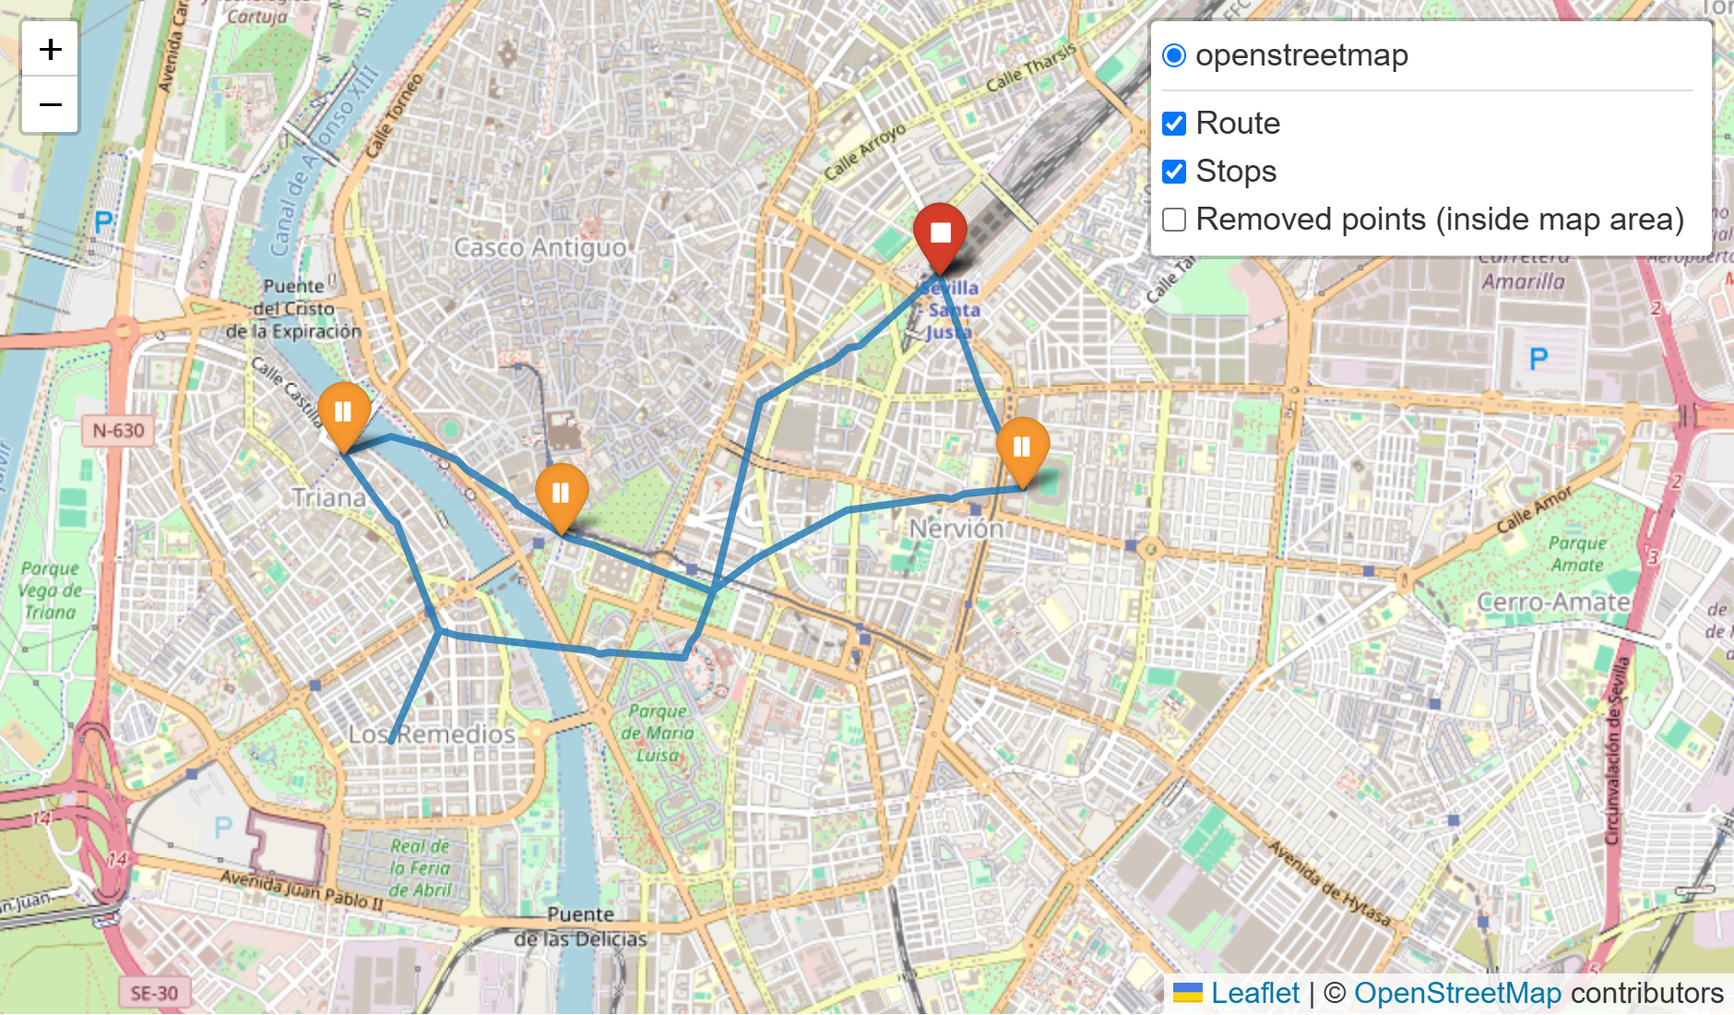
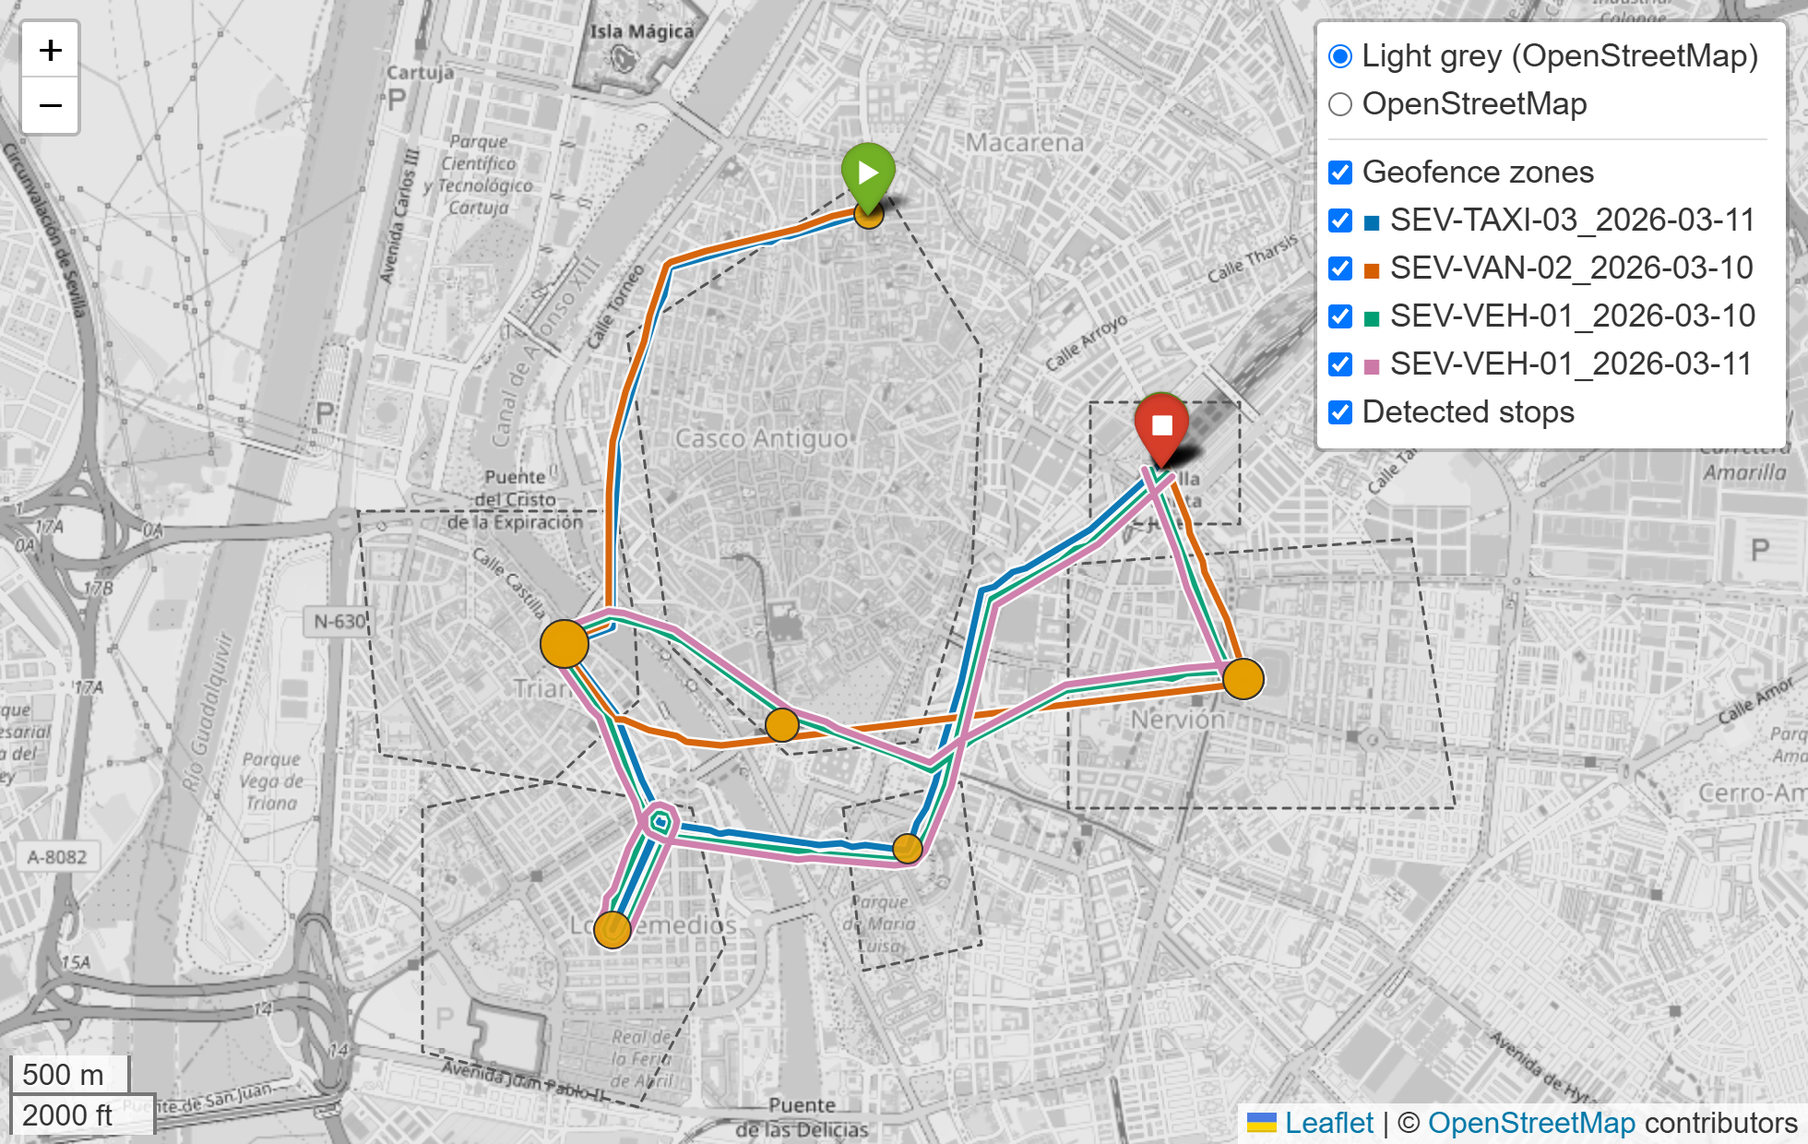
Update README and screenshots

diff --git a/README.md b/README.md
@@ -1,137 +1,273 @@
 # GPS Trajectory Analysis – Seville
 
-A small Streamlit app that loads GPS records for one vehicle driving around Seville, removes invalid records, analyses the trajectory and shows the result on an interactive map.
+A Streamlit application for cleaning and analysing vehicle GPS tracks. It reads GPS records from CSV, GPX or GeoJSON files, removes invalid records, builds trajectories for several vehicles, and runs trajectory and spatial analysis: stops, journeys, geofencing, proximity and route comparison. Results can be stored in PostGIS and exported as CSV or GeoJSON.
 
-The data is synthetic. The trajectory analysis is done with [MovingPandas](https://github.com/movingpandas/movingpandas); this project does not reimplement its algorithms.
+The GPS data is synthetic. It describes three vehicles driving around Seville over two days. Trajectory algorithms come from [MovingPandas](https://github.com/movingpandas/movingpandas), and spatial operations from GeoPandas and Shapely.
+
+![Map with trajectories, stops and geofence zones](screenshots/map.png)
 
 ## Screenshots
 
-Taken from the running app with the sample dataset and default settings.
+Journey summary for all vehicles:
 
-Route from Santa Justa through Nervión, the city centre, Triana and Los Remedios, with the three detected stops:
+![Overview](screenshots/overview.png)
 
-![Map with route and stops](screenshots/map.png)
+Data quality: rejected records by reason, and distance at each cleaning stage:
 
-Journey summary:
+![Data quality](screenshots/data_quality.png)
 
-![Journey statistics](screenshots/dashboard.png)
+Raw track (dashed) against the cleaned track for one vehicle. The dashed line leaving the top of the map is a GPS jump to the airport. The white circles are fixes rejected for low reported accuracy.
 
-Stops table, records removed during cleaning, and speed over time:
+![Raw and cleaned track](screenshots/raw_vs_cleaned.png)
 
-![Stops, removed records and speed chart](screenshots/analysis.png)
+Speed and acceleration profiles:
 
+![Movement](screenshots/movement.png)
 
+Geofence events and time spent inside each zone:
+
+![Spatial analysis](screenshots/spatial.png)
 
 ## What it does
 
-1. Reads a CSV with `timestamp`, `latitude`, `longitude` (and optionally `vehicle_id`).
-2. Removes records that are missing values, have unreadable values, are outside the valid coordinate range, are at (0, 0), are outside a Seville bounding box, or repeat a timestamp.
-3. Builds a MovingPandas `Trajectory` and removes GPS jumps with `OutlierCleaner` (points that would need a speed above a set limit to reach).
-4. Calculates distance, duration and speed with MovingPandas (`get_length`, `get_duration`, `add_speed`).
-5. Detects stops with MovingPandas `TrajectoryStopDetector`.
-6. Shows the route, start/end, stops and removed points on a Folium map, plus summary figures, a stops table, a removed-records table and a speed chart. The cleaned trajectory can be downloaded as CSV.
+**Input and cleaning**
+- Reads CSV, GPX and GeoJSON (points, or lines with a list of times). Several files can be loaded together.
+- Rejects records with a missing or unreadable timestamp or coordinate, coordinates out of range, (0, 0), points outside the study area, a reported accuracy worse than a threshold, or a duplicate timestamp.
+- Removes GPS jumps with MovingPandas `OutlierCleaner`.
+- All thresholds can be changed in the sidebar or in a TOML file (`config/default.toml`).
+- Produces a quality report: records read, valid and rejected, the reason for each rejection, sampling intervals and gaps, and distance at each cleaning stage.
+- Keeps raw, cleaned and processed data separate.
 
-The speed limit for GPS jumps and the stop parameters (maximum diameter, minimum duration) can be changed in the sidebar. You can also upload your own CSV in the same format.
+**Trajectories**
+- Builds one trajectory per vehicle and day.
+- Calculates distance, duration, moving time, average and maximum speed, and acceleration.
+- Detects stops and dwell times, and splits trajectories into journeys at stops and signal gaps.
+- Finds locations visited more than once, by clustering stops with DBSCAN.
+- Flags unusual movement: unusually high speed, or harsh acceleration and braking, using a robust z-score per vehicle.
+- Compares routes with Hausdorff distance, discrete Fréchet distance, and the share of each route within a buffer around the other.
+- Filters by vehicle, date, time of day and zone.
 
-## My implementation vs. the libraries
+**Spatial analysis**
+- Geofencing: entry and exit times and dwell time per zone, from point-in-polygon joins.
+- Spatial joins of stops with zones, and the length of each route inside each zone (overlay).
+- Route buffers, landmarks near each route, and the nearest landmark to each stop.
+- Optional road network from OpenStreetMap with OSMnx, with each fix snapped to the nearest road.
+- GeoJSON export of trajectories, stops and zones.
+
+**Storage and dashboard**
+- Optional PostGIS storage with spatial indexes, and queries by vehicle, date, bounding box and distance.
+- Streamlit dashboard with a layered map (trajectories, stops, zones, rejected points, raw track, buffers, frequent locations, unusual movement, heatmap), charts, tables and download buttons.
+
+## How it works
+
+```mermaid
+flowchart LR
+    A[CSV / GPX / GeoJSON] --> B[Validation<br>readers.py, cleaning.py]
+    B --> C[GPS cleaning<br>OutlierCleaner]
+    C --> D[Trajectory processing<br>analysis.py, analytics.py]
+    D --> E[Spatial analysis<br>spatial.py, roads.py]
+    E --> F[PostGIS / CSV / GeoJSON<br>db.py, export.py]
+    E --> G[Streamlit dashboard<br>app.py]
+    F --> G
+```
+
+1. **Read.** Each reader returns the same raw table: `vehicle_id`, `timestamp`, `latitude`, `longitude`, `accuracy_m`, `source`. Values stay as text, so a bad value becomes a rejected record with a reason instead of an error.
+2. **Validate.** Record checks with pandas. Each rejected record keeps its original values and the first rule it failed.
+3. **Clean.** Records are grouped into one MovingPandas trajectory per vehicle and day. GPS jumps are removed: a jump is a point that would need more than 200 km/h to reach.
+4. **Process.** Speed, acceleration, stops and journeys come from MovingPandas. The summary tables, clustering, anomaly rule and route comparison are my code.
+5. **Spatial analysis.** Done in WGS84 for storage and display, and in ETRS89 / UTM 30N (EPSG:25830) for anything measured in metres. An automatic UTM zone can be chosen instead.
+6. **Output.** Shown in the dashboard, exported as files, or stored in PostGIS.
+
+The code is in `gps_seville/`. `pipeline.py` runs steps 2–4 and returns the raw, cleaned and processed data in one object. `app.py` only builds the interface.
+
+## My code vs. the libraries
 
 | Part | Done by |
 |---|---|
-| Synthetic data generator (`scripts/generate_data.py`) | My code |
-| Record checks: missing values, ranges, (0, 0), bounding box, duplicates (`gps_seville/cleaning.py`) | My code, using pandas |
+| CSV/GPX/GeoJSON readers, column aliases, time zone handling | My code (gpxpy parses GPX) |
+| Record checks and rejection reasons | My code, pandas |
 | GPS jump removal | MovingPandas `OutlierCleaner` |
-| Distance, duration, speed | MovingPandas `Trajectory` |
-| Stop detection | MovingPandas `TrajectoryStopDetector` |
-| Summary figures (moving time, average moving speed) | My code, from MovingPandas results |
-| Map layers and app layout (`gps_seville/mapping.py`, `app.py`) | My code, using Folium, streamlit-folium and Streamlit |
-| Tests (`tests/`) | My code |
+| Trajectories, length, speed, acceleration | MovingPandas `TrajectoryCollection`, `add_speed`, `add_acceleration` |
+| Stop detection and journey splitting | MovingPandas `TrajectoryStopDetector`, `ObservationGapSplitter`, `StopSplitter` |
+| Interpolated position at a given time | MovingPandas `get_position_at` |
+| Quality report, distance by cleaning stage, jitter estimate | My code |
+| Moving time, average moving speed, summary tables | My code, from MovingPandas results |
+| Frequent locations | scikit-learn `DBSCAN`, grouping and summaries are my code |
+| Unusual movement (robust z-score) | My code |
+| Route similarity | Shapely `hausdorff_distance`, `frechet_distance`; buffer overlap is my code |
+| Geofence enter/exit and dwell time | My code, on GeoPandas `sjoin` |
+| Route length in zones, buffers, nearest landmark | GeoPandas `overlay`, `buffer`, `sjoin_nearest` |
+| CRS handling | pyproj via GeoPandas; choice of CRS and checks are my code |
+| Road network and snapping | OSMnx download, GeoPandas `sjoin_nearest` |
+| PostGIS schema, storage and queries | My code: SQL with PostGIS functions, SQLAlchemy, GeoAlchemy2 |
+| Map and dashboard | My code: Folium, streamlit-folium, Altair, Streamlit |
 
 ## Sample data
 
-`data/vehicle_gps_seville.csv` contains 661 records, one every 5 seconds, for a trip on 10 March 2026 from 08:00 to about 08:54:
+All data is synthetic, made by `scripts/generate_data.py`:
 
-Santa Justa station → Nervión (12 min stop) → San Bernardo → Prado de San Sebastián → city centre, Puerta de Jerez (8 min stop) → Paseo de Colón → Puente de Triana → Triana, Plaza del Altozano (15 min stop) → Plaza de Cuba → Los Remedios, Calle Asunción (90 s stop) → Puente de los Remedios → Plaza de España → Avenida Menéndez Pelayo → Santa Justa station
+- `data/vehicle_gps_seville.csv`: the original single-vehicle file (661 records, one trip on 10 March 2026). It is unchanged from the first version of the project.
+- `data/fleet_gps_seville.csv`: 2,046 records from three vehicles over two days (10 and 11 March 2026), including the first trip. One vehicle drives the same route on both days. Each record has a reported accuracy in metres.
+- `data/samples/`: one track as GPX and one as GeoJSON, for testing uploads.
+- `data/zones_seville.geojson`: six zones (Casco Antiguo, Triana, Los Remedios, Nervión, Santa Justa station, Parque de María Luisa).
+- `data/poi_seville.geojson`: seven landmarks.
 
-The route is a list of waypoints on main streets and bridges, with straight lines between them. It does not follow the road network exactly, and the coordinates are approximate. Positions have a few metres of random error. Nine invalid records are inserted on purpose: (0, 0), latitude 91.5, a missing longitude, a text value, an unreadable timestamp, a point in Madrid, a duplicate record and two GPS jumps (to the airport and to La Cartuja).
+The routes follow waypoints on main streets and bridges, joined by straight lines, so they do not follow the road network exactly. Positions get a random error of a few metres. The zone outlines are drawn by hand and are not official boundaries.
 
-To regenerate the file (same result each time, fixed random seed):
+Problems are added on purpose:
+- invalid records: missing values, (0, 0), points in Madrid and Cádiz, duplicates
+- two GPS jumps per file
+- a block of low-accuracy fixes
+- a 4-minute signal gap
+- one leg driven at about 70 km/h, to test the anomaly detection
+
+## Results with the sample data
+
+With the default settings, the fleet file gives:
+
+- 2,046 records read, 2,031 valid (99.3 %), 15 rejected. The rejections are 8 low-accuracy fixes, 2 duplicates, 2 GPS jumps, 1 zero coordinate, 1 point outside the area and 1 missing timestamp.
+- 4 trajectories, 34.0 km, 11 stops and 15 journeys. The van's signal gap splits one of its journeys.
+- Frequent locations: Triana and Nervión (3 visits each, 2 vehicles), and Puerta de Jerez (2 visits).
+- The same route driven on the two days: Hausdorff 13.8 m, Fréchet 13.9 m, 100 % overlap.
+- Unusual speed: 7 fixes from the van at 72–84 km/h, robust z-scores 9.6–12.6. The other flags are acceleration and braking at the start and end of stops, because the synthetic vehicles change speed instantly.
+
+The single-vehicle file gives 652 valid records, 9.7 km and 3 stops, the same as the first version.
+
+To regenerate the data (fixed random seeds, same files each time):
 
 ```
 .venv\Scripts\python scripts\generate_data.py
 ```
 
-With the default settings the app reports:
+## GPS accuracy and distance
 
-- 9.7 km, 54 min in total, 18 min moving
-- 3 stops (Nervión, Puerta de Jerez, Triana). The 90 s stop in Los Remedios is below the 5 min threshold; set the minimum to 1 min and it shows up as a 4th stop.
-- 7 records removed by the record checks and 2 removed as GPS jumps
+Consumer GPS positions are typically off by a few metres in the open and by tens of metres near tall buildings or trees. Joining noisy positions with straight lines makes the distance too long. The effect is largest when the vehicle is parked: it does not move, but each new fix lands a metre or two from the last one.
 
-The waypoint route is 8.85 km long. The measured distance is higher because of the random position error, mostly while the vehicle is parked.
+The Data quality tab shows the distance at each stage. In the fleet data, 7–10 % of the cleaned distance is collected while parked; the tab shows this as `stationary_km`. The positions are synthetic, so the results are only as precise as the noise added to them. Distances are shown to the metre only so the stages can be compared.
+
+Positions interpolated between two fixes are estimates. The map shows them as a hollow ring, labelled "interpolated", so they are not confused with GPS observations.
 
 ## Setup on Windows
 
-Requires Python 3.11 or newer (tested with Python 3.12 on Windows 11). Check with `python --version`. If it shows an older version, use the full path to a newer Python, for example `C:\Users\<you>\AppData\Local\Programs\Python\Python312\python.exe`, in the first command below.
-
-In PowerShell, from the project folder:
+Python 3.11 or newer (tested with Python 3.12 on Windows 11). If `python --version` shows an older version, use the full path to a newer Python in the first command.
 
 ```
 python -m venv .venv
-.venv\Scripts\python -m pip install -r requirements.txt
-```
-
-Run the app:
-
-```
+.venv\Scripts\python -m pip install -r requirements-dev.txt
 .venv\Scripts\python -m streamlit run app.py
 ```
 
-It opens at http://localhost:8501.
+The app opens at http://localhost:8501 with the fleet sample loaded. Settings can also be loaded from a TOML file:
 
-Run the tests:
+```
+.venv\Scripts\python -m streamlit run app.py -- --config config\default.toml
+```
+
+**PostGIS (optional).** Needs Docker Desktop.
+
+```
+copy .env.example .env
+docker compose up -d db
+```
+
+Set a password in `.env` before starting the database. The app reads `DATABASE_URL` from `.env`. Without it, the Database tab only shows how to set it up.
+
+**Whole app in Docker:**
+
+```
+docker compose up --build
+```
+
+**Basemaps.** The map uses OpenStreetMap tiles, shown in light grey by default so the routes stand out. The standard OpenStreetMap style can be selected in the sidebar. CARTO Positron and Voyager also appear if `CARTO_API_KEY` is set in `.env`. CARTO tiles need an API key, and I have not tested them with a real key.
+
+## Tests
 
 ```
 .venv\Scripts\python -m pytest
+.venv\Scripts\python -m ruff check .
+.venv\Scripts\python -m ruff format --check .
 ```
 
-These commands call the virtual environment's Python directly, so you do not need to activate it (activation in PowerShell can be blocked by the execution policy).
+The tests cover:
+- the readers, including broken files
+- the cleaning rules and configuration
+- CRS handling, the pipeline on both sample files, and distances on tracks with a known length
+- stop detection, journey splitting, anomalies, clustering, route similarity, filters
+- geofencing, spatial joins, buffers and exports
+- the map layers and basemaps
+- the Streamlit app, run headless with `streamlit.testing`
+
+The PostGIS tests run when `DATABASE_URL` is set. They store and query data, compare PostGIS lengths with the MovingPandas and GeoPandas results, and check that bounding-box queries use the GiST index. A live OpenStreetMap download test runs with `RUN_NETWORK_TESTS=1`.
+
+The GitHub Actions workflow (`.github/workflows/ci.yml`) runs Ruff and the full test suite against a PostGIS service container.
 
 ## Project layout
 
 ```
-app.py                       Streamlit app
-gps_seville/cleaning.py      CSV loading and record checks
-gps_seville/analysis.py      MovingPandas trajectory, outliers, stops, summary
-gps_seville/mapping.py       Folium map
-scripts/generate_data.py     Synthetic data generator
-data/                        Sample CSV
-tests/                       pytest tests
+app.py                      Streamlit dashboard
+gps_seville/
+  readers.py                CSV, GPX, GeoJSON input
+  cleaning.py               record checks
+  pipeline.py               raw -> cleaned -> processed
+  analysis.py               MovingPandas trajectories, stops, journeys
+  analytics.py              clustering, anomalies, similarity, filters
+  quality.py                quality report and distance comparison
+  spatial.py                geofencing, joins, buffers, proximity
+  roads.py                  OSMnx road network (optional)
+  crs.py                    projected CRS selection
+  db.py                     PostGIS (optional)
+  export.py                 CSV and GeoJSON
+  mapping.py, charts.py     Folium map, Altair charts
+  views.py                  filtered views for the dashboard
+  config.py, env.py, logging_config.py, exceptions.py
+config/default.toml         default settings
+data/                       sample data, zones, landmarks
+scripts/generate_data.py    synthetic data generator
+tests/                      pytest tests
+docker-compose.yml, Dockerfile, .env.example
 ```
 
 ## Limitations
 
-- One vehicle per file. If the file has several `vehicle_id` values they are treated as one trajectory.
-- The bounding box is a rectangle around Seville, so nearby places such as Camas, San Juan de Aznalfarache and the airport are inside it.
-- Stops are detected by MovingPandas from position and time only. GPS noise while stopped adds some distance (see above).
-- With pandas 3.1, MovingPandas 0.23 prints `Pandas4Warning` deprecation warnings during stop detection. They come from inside MovingPandas and do not affect results.
+- The data is synthetic. Routes are straight lines between waypoints, and speed changes at stops are instant.
+- One trajectory per vehicle per calendar day. A trip that crosses midnight is split in two.
+- Timestamps are treated as local time without a time zone. GPX times in UTC are converted to UTC and the zone is dropped. Files recorded in different time zones are not aligned.
+- Geofence entry and exit times are the first and last fix inside a zone, not interpolated boundary crossings (about 5 seconds' accuracy with this data).
+- Road snapping assigns each fix to the nearest road. It is not map matching and can pick the wrong street near junctions. Downloading roads for a small area worked in testing. A download for the whole fleet area timed out against the public Overpass server, so that case is not verified.
+- The anomaly rule is statistical and per vehicle. It needs at least 10 moving fixes and does not know speed limits.
+- The study-area check is a bounding box, not a polygon.
+- The map draws routes on the same street side by side with a small screen offset; their coordinates are not changed.
+- The GitHub Actions workflow is written but has not run on GitHub yet.
+
+## Possible next steps
+
+- Map matching with a hidden Markov model on the OSM road network.
+- Trips that cross midnight, and time zone support.
+- Polygon study areas, and zone files with a CRS other than WGS84.
+- Testing with real GPS logs.
 
 ## Acknowledgements and licences
 
-This project uses the following open-source libraries. They are installed from PyPI and not included in this repository.
+The libraries are installed from PyPI and not included in this repository.
 
 | Library | Licence |
 |---|---|
-| [MovingPandas](https://github.com/movingpandas/movingpandas) (Anita Graser and contributors) | BSD 3-Clause |
-| [GeoPandas](https://github.com/geopandas/geopandas) | BSD 3-Clause |
-| [pandas](https://github.com/pandas-dev/pandas) | BSD 3-Clause |
-| [Shapely](https://github.com/shapely/shapely) | BSD 3-Clause |
+| [MovingPandas](https://github.com/movingpandas/movingpandas) | BSD 3-Clause |
+| [GeoPandas](https://github.com/geopandas/geopandas), [pandas](https://github.com/pandas-dev/pandas), [Shapely](https://github.com/shapely/shapely) | BSD 3-Clause |
 | [pyproj](https://github.com/pyproj4/pyproj) | MIT |
-| [Folium](https://github.com/python-visualization/folium) | MIT |
+| [scikit-learn](https://github.com/scikit-learn/scikit-learn) | BSD 3-Clause |
+| [gpxpy](https://github.com/tkrajina/gpxpy) | Apache 2.0 |
+| [OSMnx](https://github.com/gboeing/osmnx) | MIT |
+| [Folium](https://github.com/python-visualization/folium), [streamlit-folium](https://github.com/randyzwitch/streamlit-folium) | MIT |
 | [Streamlit](https://github.com/streamlit/streamlit) | Apache 2.0 |
-| [streamlit-folium](https://github.com/randyzwitch/streamlit-folium) | MIT |
-| [pytest](https://github.com/pytest-dev/pytest) | MIT |
+| [Altair](https://github.com/vega/altair) | BSD 3-Clause |
+| [SQLAlchemy](https://github.com/sqlalchemy/sqlalchemy), [GeoAlchemy2](https://github.com/geoalchemy/geoalchemy2) | MIT |
+| [psycopg](https://github.com/psycopg/psycopg) | LGPL 3.0 |
+| [leaflet-polylineoffset](https://github.com/bbecquet/Leaflet.PolylineOffset) (loaded by Folium from a CDN) | MIT |
+| [PostGIS](https://postgis.net/) (Docker image `postgis/postgis`) | GPL 2.0 |
 
-Map tiles are from [OpenStreetMap](https://www.openstreetmap.org/copyright) (© OpenStreetMap contributors, ODbL).
+Map tiles and road data © [OpenStreetMap](https://www.openstreetmap.org/copyright) contributors (ODbL).
 
-The app layout (Streamlit + Folium, summary figures, map with start/end and stop markers) was inspired by [GPX Route Analyzer](https://github.com/imarranz/gpx-route-analyzer) by Ibon Martínez-Arranz (MIT licence). No code was copied from it. That project parses GPX files and computes metrics with its own functions; this project reads CSV records and uses MovingPandas for the analysis.
+The first version of the app layout was inspired by [GPX Route Analyzer](https://github.com/imarranz/gpx-route-analyzer) by Ibon Martínez-Arranz (MIT licence). No code was copied from it.
 
 This project is released under the MIT licence, see `LICENSE`.
